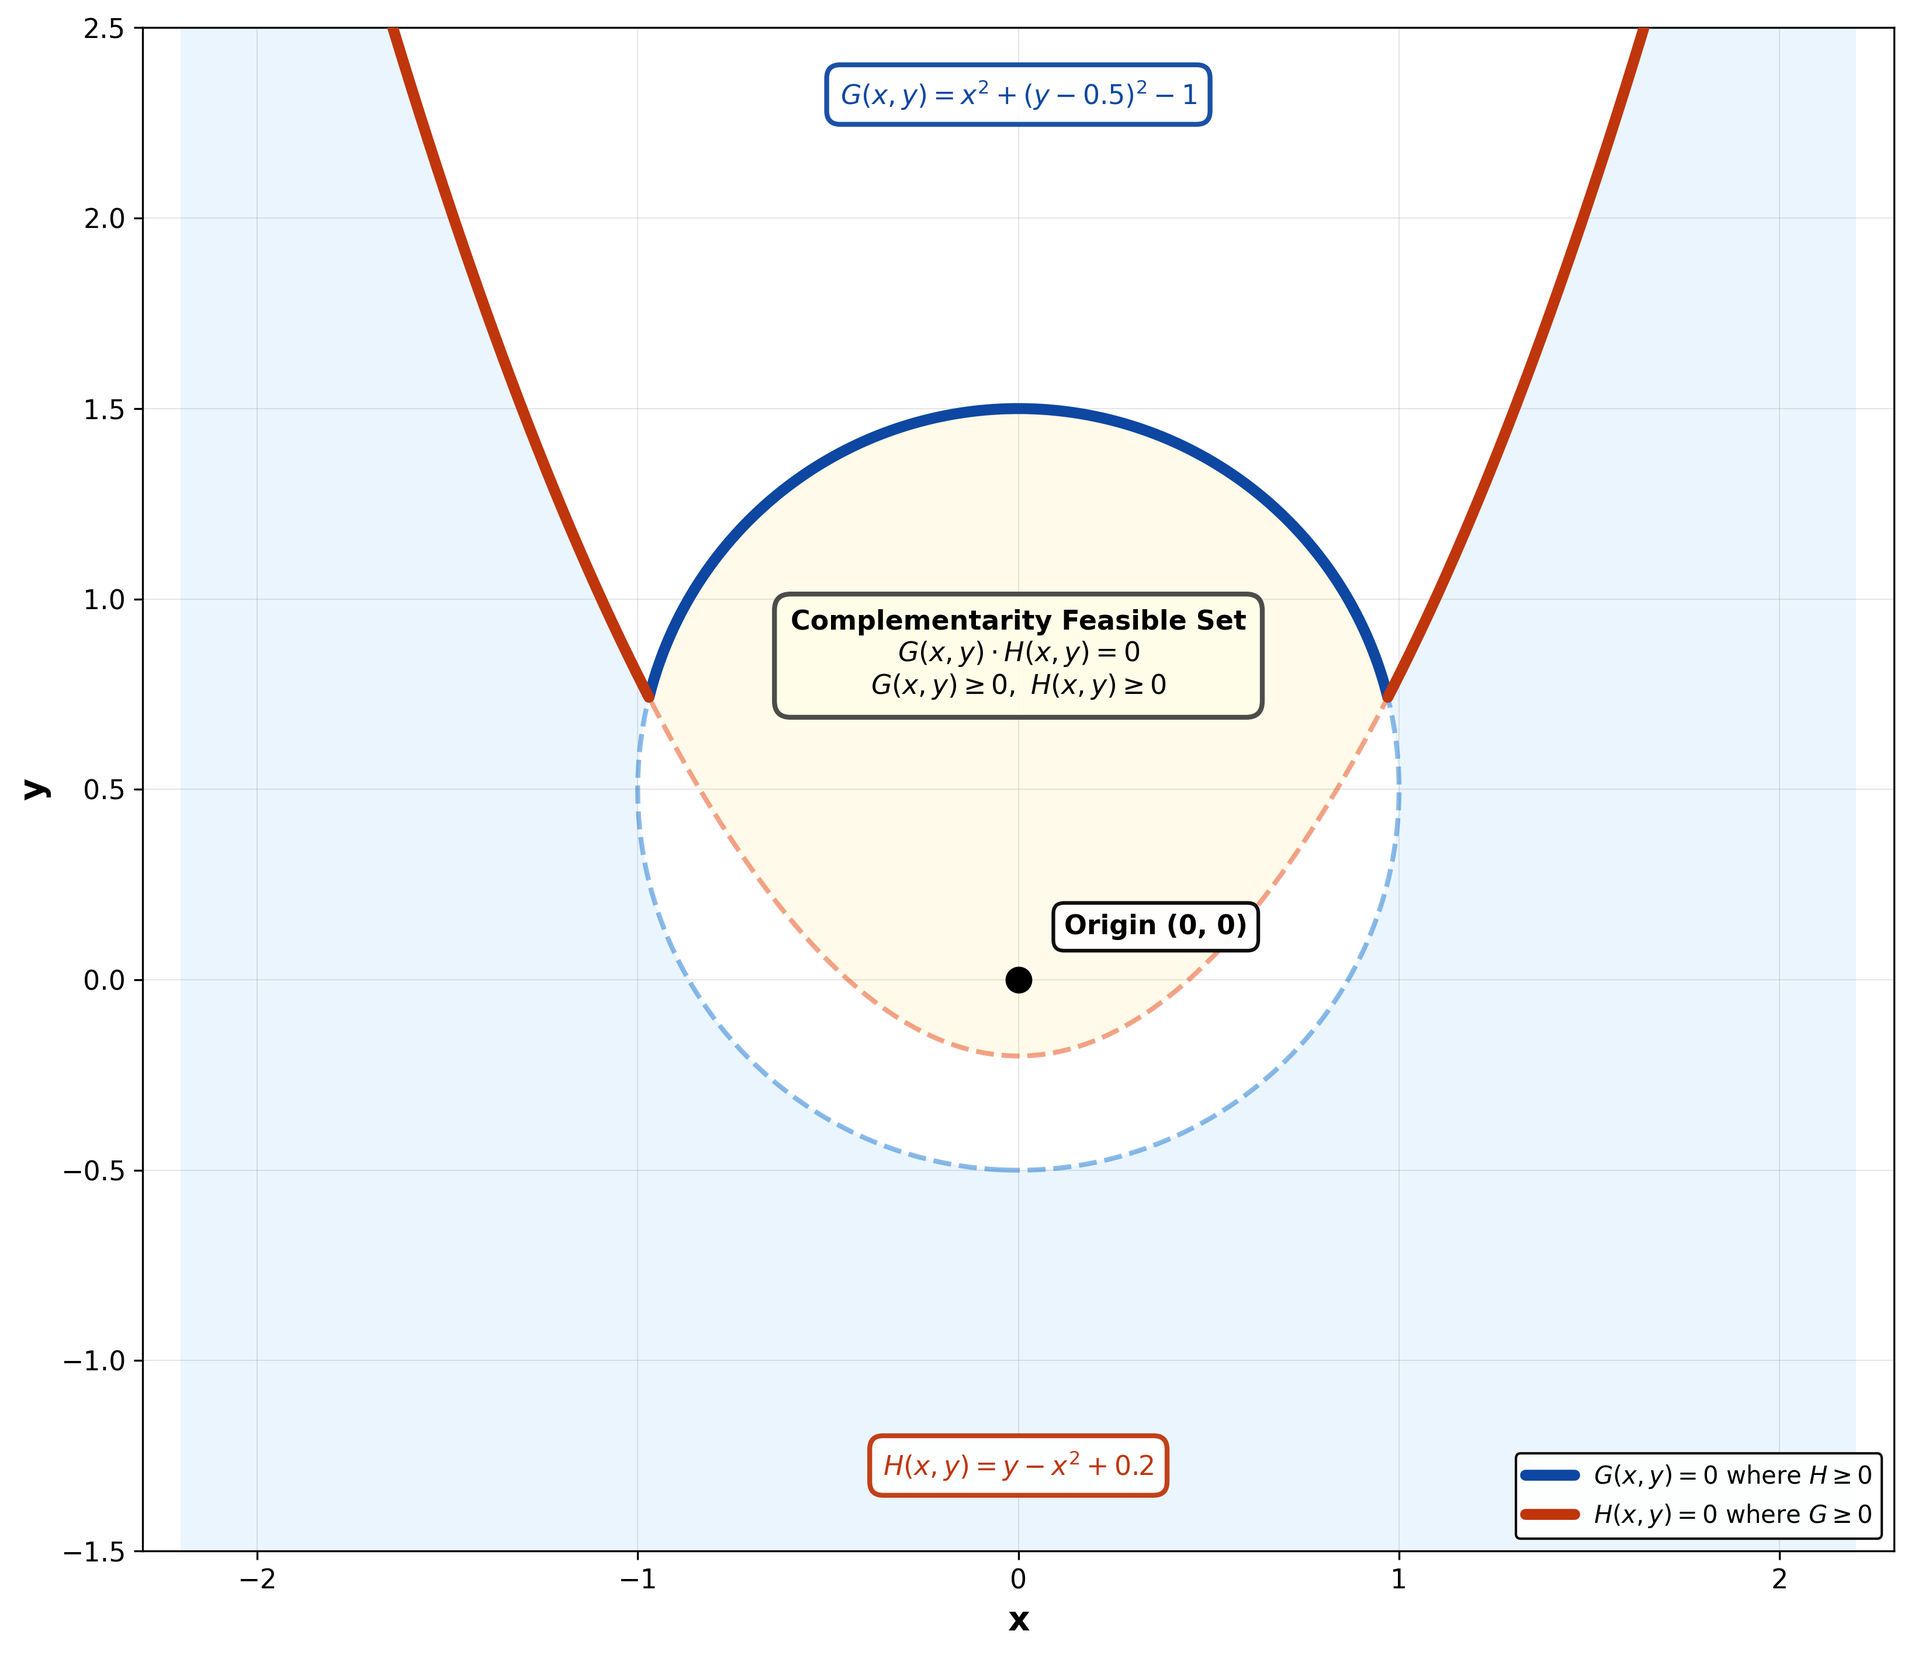
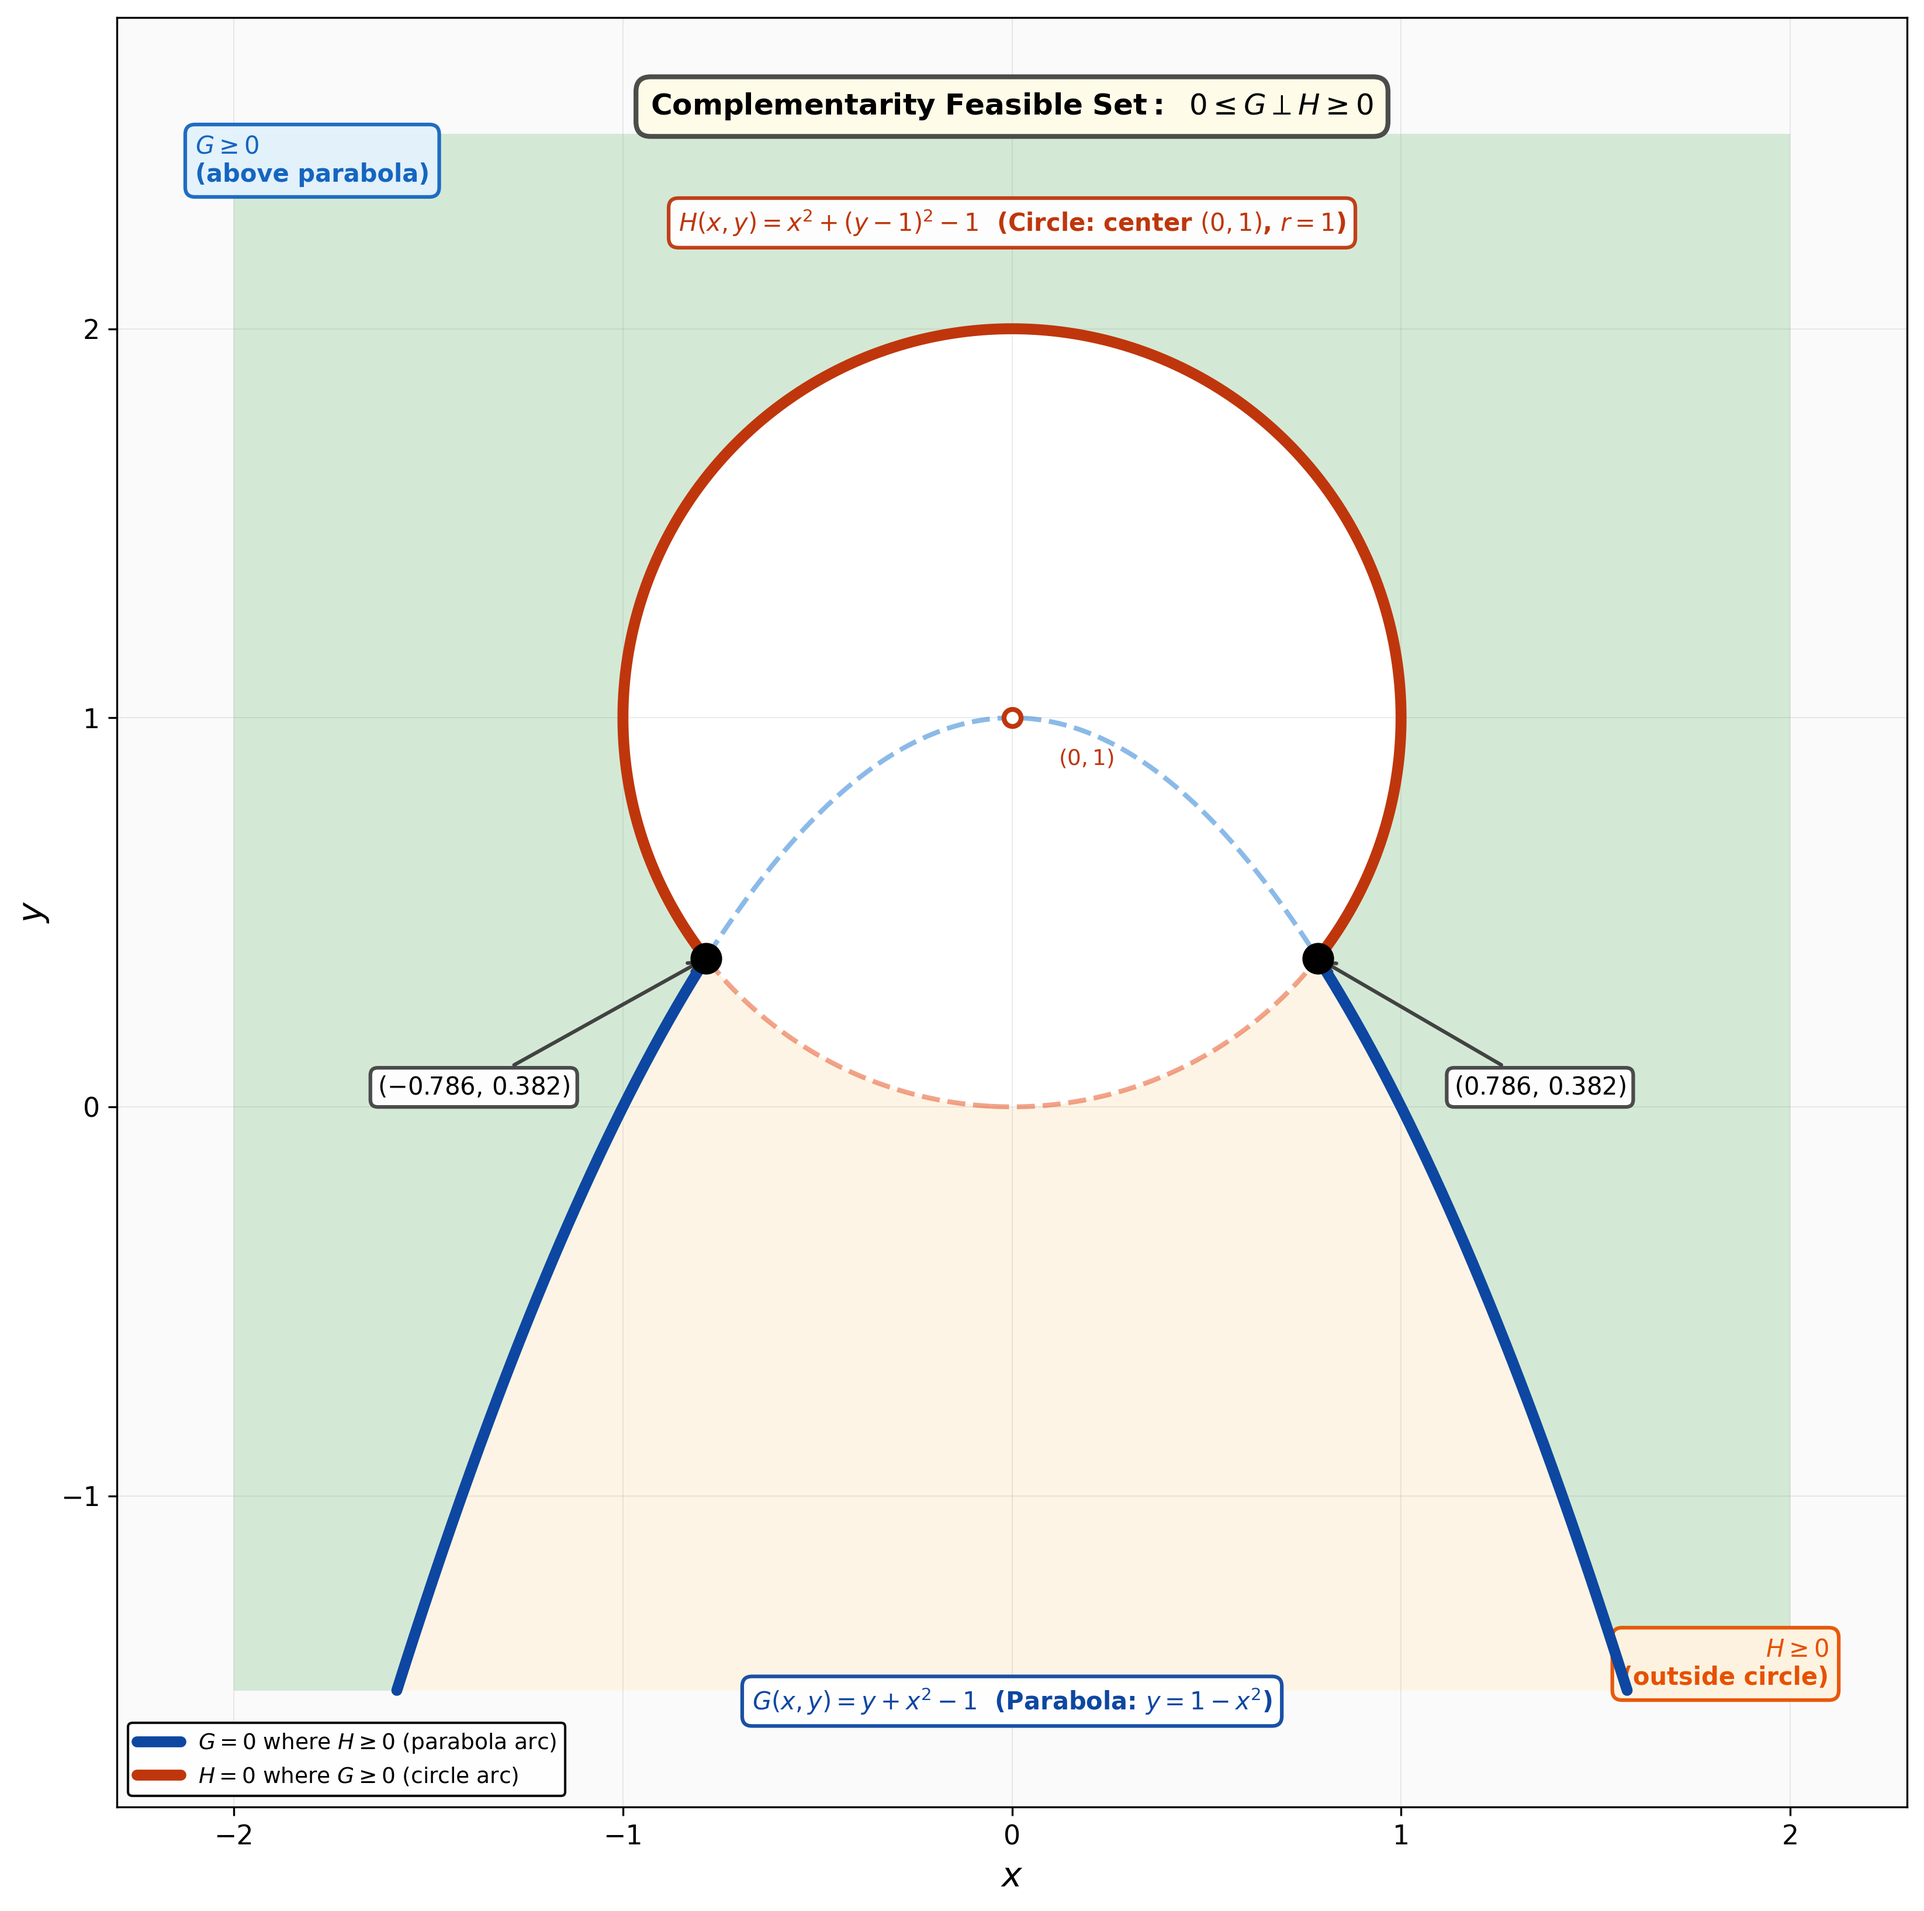
change MPEC according to the examples

diff --git a/mpec_feasible_region.py b/mpec_feasible_region.py
@@ -1,25 +1,28 @@
 # mpec_feasible_region.py
-# Produces a geometric illustration for complementarity feasible set
+# Geometric illustration for complementarity feasible set
+# Example: Parabola vs Circle
+#   G(x,y) = y + x^2 - 1  (G >= 0 means above the parabola y = 1 - x^2)
+#   H(x,y) = x^2 + (y-1)^2 - 1  (H >= 0 means outside/on the circle centered at (0,1) with radius 1)
+# Complementarity: G >= 0, H >= 0, G·H = 0
 # Requires: numpy, matplotlib
-# Run: python mpec_feasible_region.py
 # Output: mpec_feasible_region.png
 
 import numpy as np
 import matplotlib.pyplot as plt
 
 def G(x, y):
-    """Circle-like boundary centered at (0, 0.5)"""
-    return x**2 + (y - 0.5)**2 - 1.0
+    """Parabola boundary: G=0 is y = 1 - x^2
+       G >= 0 means points ABOVE the parabola (y >= 1 - x^2)
+    """
+    return y + x**2 - 1
 
 def H(x, y):
-    """Upward-opening parabola: H=0 is y = x^2 - 0.2"""
-    return y - (x**2 - 0.2)
+    """Circle boundary centered at (0, 1) with radius 1: H=0 is x^2 + (y-1)^2 = 1
+       H >= 0 means points OUTSIDE or ON the circle (x^2 + (y-1)^2 >= 1)
+    """
+    return x**2 + (y - 1)**2 - 1
 
-def compute_grid(xmin=-2.2, xmax=2.2, ymin=-1.5, ymax=2.5, n=1000):
-    """
-    n controls grid resolution: higher n gives smoother contours but slower computation
-    n=1000 is good for publication quality
-    """
+def compute_grid(xmin=-2.0, xmax=2.0, ymin=-1.5, ymax=2.5, n=1000):
     xs = np.linspace(xmin, xmax, n)
     ys = np.linspace(ymin, ymax, n)
     X, Y = np.meshgrid(xs, ys)
@@ -33,6 +36,7 @@ def get_feasible_contour_segments(contour_set, condition_func):
     Returns list of (x_array, y_array) tuples.
     """
     segments = []
+    threshold = 0.01  # Small positive threshold to avoid numerical issues at boundaries
     
     for path in contour_set.get_paths():
         verts = path.vertices
@@ -43,8 +47,8 @@ def get_feasible_contour_segments(contour_set, condition_func):
         y_pts = verts[:, 1]
         cond_vals = condition_func(x_pts, y_pts)
         
-        # Find where condition is satisfied
-        valid = cond_vals >= -1e-6
+        # Find where condition is satisfied (strictly inside feasible region)
+        valid = cond_vals >= threshold
         
         # Split into continuous valid segments
         in_segment = False
@@ -71,28 +75,35 @@ def main():
     X, Y, Gvals, Hvals = compute_grid()
 
     # Boolean masks for inequality regions
-    mask_G_ge0 = (Gvals >= 0).astype(float)
-    mask_H_ge0 = (Hvals >= 0).astype(float)
+    mask_G_ge0 = (Gvals >= 0).astype(float)  # Above parabola
+    mask_H_ge0 = (Hvals >= 0).astype(float)  # Outside circle
     mask_both = mask_G_ge0 * mask_H_ge0
 
     # --- Plotting ---
-    fig, ax = plt.subplots(figsize=(11, 10))
+    fig, ax = plt.subplots(figsize=(12, 11))
     ax.set_aspect('equal')
     ax.set_xlim(-2.3, 2.3)
-    ax.set_ylim(-1.5, 2.5)
+    ax.set_ylim(-1.8, 2.8)
     
     # Subtle grid
-    ax.grid(True, alpha=0.2, linestyle='-', linewidth=0.5, color='gray')
+    ax.grid(True, alpha=0.15, linestyle='-', linewidth=0.5, color='gray')
 
     # Region shading with professional academic colors
-    # G >= 0 region (outside circle) - very light blue-gray
-    ax.contourf(X, Y, mask_G_ge0, levels=[0.5, 1.5], colors=["#e3f2fd"], alpha=0.7)
+    # Layer 1: Base background
+    ax.set_facecolor('#fafafa')
     
-    # H >= 0 region (above parabola) - very light amber
-    ax.contourf(X, Y, mask_H_ge0, levels=[0.5, 1.5], colors=["#fff8e1"], alpha=0.7)
+    # Layer 2: H >= 0 region (outside circle) - light amber/orange
+    ax.contourf(X, Y, mask_H_ge0, levels=[0.5, 1.5], colors=["#fff3e0"], alpha=0.8)
     
-    # Intersection region (both >= 0) - clean white
-    ax.contourf(X, Y, mask_both, levels=[0.5, 1.5], colors=["white"], alpha=1.0)
+    # Layer 3: G >= 0 region (above parabola) - light blue  
+    ax.contourf(X, Y, mask_G_ge0, levels=[0.5, 1.5], colors=["#e3f2fd"], alpha=0.6)
+    
+    # Layer 4: Intersection region (both >= 0) - light green
+    ax.contourf(X, Y, mask_both, levels=[0.5, 1.5], colors=["#c8e6c9"], alpha=0.7)
+    
+    # Layer 5: Inside circle (H < 0) - white to show it's excluded from H>=0
+    mask_H_lt0 = (Hvals < 0).astype(float)
+    ax.contourf(X, Y, mask_H_lt0, levels=[0.5, 1.5], colors=["white"], alpha=1.0)
 
     # Draw full constraint boundaries as dashed lines
     ax.contour(X, Y, Gvals, levels=[0], colors=["#1976d2"], linewidths=2.0, 
@@ -105,54 +116,108 @@ def main():
     contour_H = ax.contour(X, Y, Hvals, levels=[0], colors=["none"], linewidths=0)
 
     # Get feasible segments
-    G_segments = get_feasible_contour_segments(contour_G, H)  # G=0 where H>=0
-    H_segments = get_feasible_contour_segments(contour_H, G)  # H=0 where G>=0
+    # G=0 (parabola) where H>=0 (outside circle) - the "wings" of parabola
+    G_segments = get_feasible_contour_segments(contour_G, H)
+    # H=0 (circle) where G>=0 (above parabola) - upper arc of circle only
+    H_segments = get_feasible_contour_segments(contour_H, G)
 
     # Plot feasible segments with bold solid lines
     for i, (xs, ys) in enumerate(G_segments):
-        label = r"$G(x,y)=0$ where $H \geq 0$" if i == 0 else None
+        label = r"$G=0$ where $H \geq 0$ (parabola arc)" if i == 0 else None
         ax.plot(xs, ys, color="#0d47a1", linewidth=4.5, label=label, 
                 zorder=6, solid_capstyle='round')
 
     for i, (xs, ys) in enumerate(H_segments):
-        label = r"$H(x,y)=0$ where $G \geq 0$" if i == 0 else None
+        label = r"$H=0$ where $G \geq 0$ (circle arc)" if i == 0 else None
         ax.plot(xs, ys, color="#bf360c", linewidth=4.5, label=label, 
                 zorder=6, solid_capstyle='round')
 
-    # Mark the origin
-    ax.plot(0, 0, 'ko', markersize=10, zorder=10)
-    ax.annotate('Origin (0, 0)', xy=(0, 0), xytext=(0.12, 0.12), fontsize=11,
-                fontweight='bold',
-                bbox=dict(boxstyle="round,pad=0.4", fc="white", ec="black", 
+    # =========================================
+    # Mark the intersection points
+    # =========================================
+    # From the analysis: t = (sqrt(5) - 1)/2 ≈ 0.618034
+    # x = ±sqrt(t) ≈ ±0.786151
+    # y = 1 - t = (3 - sqrt(5))/2 ≈ 0.381966
+    t = (np.sqrt(5) - 1) / 2
+    x_int = np.sqrt(t)
+    y_int = 1 - t
+    
+    # Plot intersection points
+    ax.plot(x_int, y_int, 'ko', markersize=12, zorder=15)
+    ax.plot(-x_int, y_int, 'ko', markersize=12, zorder=15)
+    
+    # White fill for visibility
+    ax.plot(x_int, y_int, 'o', color='white', markersize=8, zorder=14)
+    ax.plot(-x_int, y_int, 'o', color='white', markersize=8, zorder=14)
+    
+    # Annotate intersection points
+    ax.annotate(f'$({x_int:.3f},\\, {y_int:.3f})$', 
+                xy=(x_int, y_int), xytext=(x_int + 0.35, y_int - 0.35), 
+                fontsize=10, fontweight='bold',
+                arrowprops=dict(arrowstyle='->', color='#424242', lw=1.5),
+                bbox=dict(boxstyle="round,pad=0.3", fc="white", ec="#424242", 
+                         linewidth=1.5, alpha=0.95))
+    
+    ax.annotate(f'$({-x_int:.3f},\\, {y_int:.3f})$', 
+                xy=(-x_int, y_int), xytext=(-x_int - 0.35, y_int - 0.35), 
+                fontsize=10, fontweight='bold', ha='right',
+                arrowprops=dict(arrowstyle='->', color='#424242', lw=1.5),
+                bbox=dict(boxstyle="round,pad=0.3", fc="white", ec="#424242", 
                          linewidth=1.5, alpha=0.95))
 
-    # Annotations for constraints - positioned to avoid overlaps
-    ax.text(0.0, 2.3, r"$G(x,y) = x^2 + (y-0.5)^2 - 1$", 
-            color="#0d47a1", fontsize=11, fontweight='bold', ha='center',
-            bbox=dict(boxstyle="round,pad=0.5", fc="white", ec="#0d47a1", 
-                     linewidth=2, alpha=0.95))
+    # =========================================
+    # Region labels - positioned in corners
+    # =========================================
+    # Label for G >= 0 region (top-left corner)
+    ax.text(-2.1, 2.5, r"$G \geq 0$" + "\n" + r"(above parabola)", 
+            color="#1565c0", fontsize=10, fontweight='bold', ha='left', va='top',
+            bbox=dict(boxstyle="round,pad=0.4", fc="#e3f2fd", ec="#1565c0", 
+                     linewidth=1.5, alpha=0.95))
     
-    ax.text(0.0, -1.3, r"$H(x,y) = y - x^2 + 0.2$", 
-            color="#bf360c", fontsize=11, fontweight='bold', ha='center',
-            bbox=dict(boxstyle="round,pad=0.5", fc="white", ec="#bf360c", 
-                     linewidth=2, alpha=0.95))
+    # Label for H >= 0 region (bottom-right corner)
+    ax.text(2.1, -1.5, r"$H \geq 0$" + "\n" + r"(outside circle)", 
+            color="#e65100", fontsize=10, fontweight='bold', ha='right', va='bottom',
+            bbox=dict(boxstyle="round,pad=0.4", fc="#fff3e0", ec="#e65100", 
+                     linewidth=1.5, alpha=0.95))
+
+    # =========================================
+    # Constraint equation labels
+    # =========================================
+    ax.text(0.0, -1.55, r"$G(x,y) = y + x^2 - 1$  (Parabola: $y = 1 - x^2$)", 
+            color="#0d47a1", fontsize=10, fontweight='bold', ha='center',
+            bbox=dict(boxstyle="round,pad=0.4", fc="white", ec="#0d47a1", 
+                     linewidth=1.5, alpha=0.95))
     
-    # Central explanation box
-    ax.text(0.0, 0.75, 
-            "Complementarity Feasible Set\n" + 
-            r"$G(x,y) \cdot H(x,y) = 0$" + "\n" +
-            r"$G(x,y) \geq 0,\ H(x,y) \geq 0$",
-            fontsize=11, ha='center', fontweight='bold',
-            bbox=dict(boxstyle="round,pad=0.6", fc="#fffde7", ec="#424242", 
+    ax.text(0.0, 2.25, r"$H(x,y) = x^2 + (y-1)^2 - 1$  (Circle: center $(0,1)$, $r=1$)", 
+            color="#bf360c", fontsize=10, fontweight='bold', ha='center',
+            bbox=dict(boxstyle="round,pad=0.4", fc="white", ec="#bf360c", 
+                     linewidth=1.5, alpha=0.95))
+    
+    # =========================================
+    # Central complementarity condition box - positioned at top center
+    # =========================================
+    ax.text(0.0, 2.55, 
+            r"$\mathbf{Complementarity\ Feasible\ Set:}\ \ 0 \leq G \perp H \geq 0$",
+            fontsize=12, ha='center', fontweight='bold',
+            bbox=dict(boxstyle="round,pad=0.5", fc="#fffde7", ec="#424242", 
                      linewidth=2, alpha=0.95))
 
-    # Legend - positioned in lower right to avoid curve overlap
-    ax.legend(loc='lower right', frameon=True, fontsize=10, 
+    # =========================================
+    # Mark center of circle
+    # =========================================
+    ax.plot(0, 1, 'o', color='#bf360c', markersize=8, zorder=12)
+    ax.plot(0, 1, 'o', color='white', markersize=4, zorder=13)
+    ax.text(0.12, 0.88, r'$(0,1)$', fontsize=9, color='#bf360c', fontweight='bold')
+
+    # =========================================
+    # Legend - positioned in lower left
+    # =========================================
+    ax.legend(loc='lower left', frameon=True, fontsize=9, 
               framealpha=0.95, edgecolor='black', fancybox=True)
     
     # Axis labels
-    ax.set_xlabel("x", fontsize=14, fontweight='bold')
-    ax.set_ylabel("y", fontsize=14, fontweight='bold')
+    ax.set_xlabel("$x$", fontsize=14, fontweight='bold')
+    ax.set_ylabel("$y$", fontsize=14, fontweight='bold')
     ax.tick_params(labelsize=11)
 
     plt.tight_layout()
